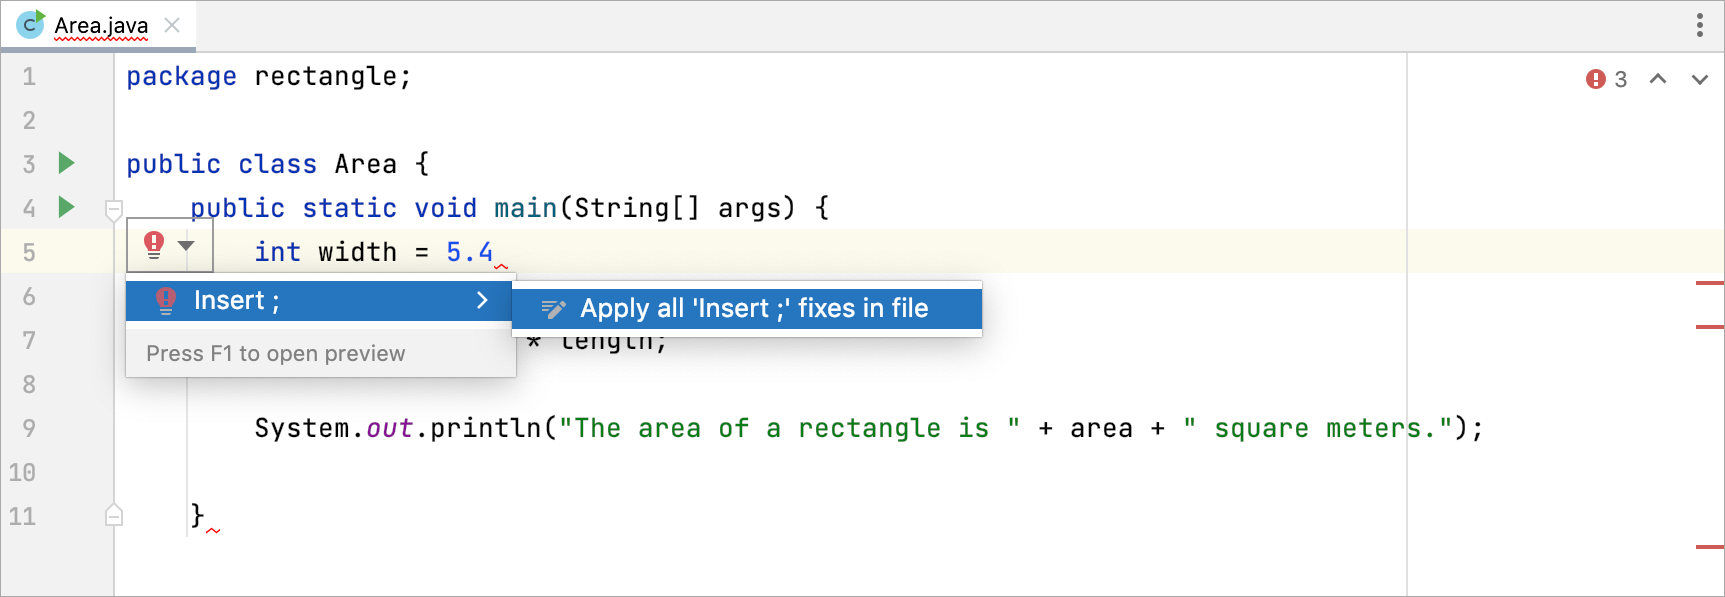
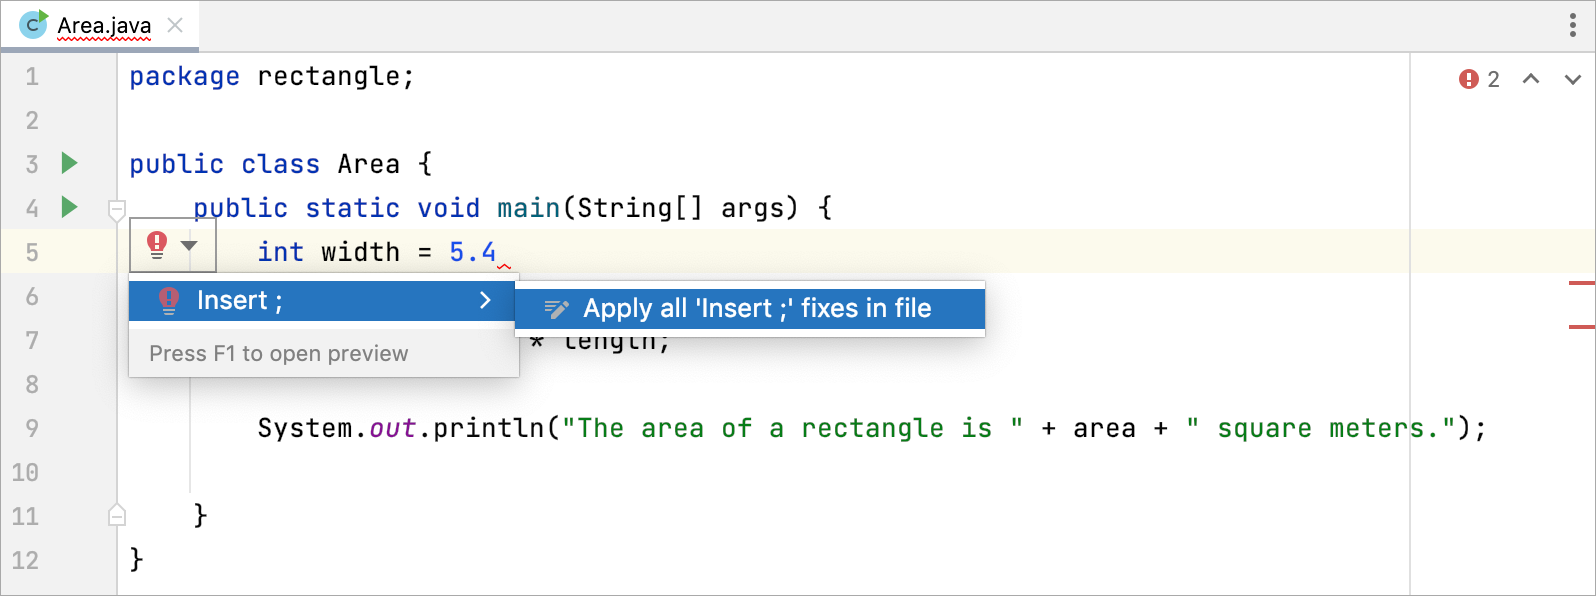
Update tutorial after proofread

diff --git a/README.md b/README.md
@@ -2,14 +2,30 @@
 
 This tutorial shows how to find and fix errors in Java code with the help of IntelliJ IDEA.
 
-IDEA automatically checks the code, highlights the possible problems, and offers
+IntelliJ IDEA automatically checks the code, highlights the possible problems, and offers
 suggestions on how to fix these problems.
 Let's try fixing errors found in a code sample with the help of these suggestions.
 
 ## Getting started
 
-To start practicing, download the [project archive](https://github.com/arctic-dreamer/Tutorial/blob/main/codesample/calculations.tutorial.zip?raw=true)
-with a code sample and open it IntelliJ IDEA.
+To start practicing, you need a new IntelliJ IDEA project with a code sample.
+
+You can either download a ready-made project prepared for this tutorial
+or just copy the code sample to an empty Java class.
+
+### Option 1: Downloading a ready-made project
+
+Download the [project .zip archive](https://github.com/arctic-dreamer/Tutorial/blob/main/codesample/calculations.tutorial.zip?raw=true)
+with the code sample, unarchive it, and open it in IntelliJ IDEA.
+
+If you are not sure how to open a project, here is [an instruction to help you](https://www.jetbrains.com/help/idea/import-project-or-module-wizard.html#open-project).
+
+> The JDK version is not important for the current project. 
+> If after opening the project IntelliJ IDEA warns you 
+> that a certain version of JDK is missing and offers to download it, 
+> you can ignore this notification.
+
+### Option 2: Copying the tutorial code sample
 
 If you don't need a ready-made project, just copy the code from the example below
 and paste it to an empty Java class:
@@ -18,35 +34,40 @@ and paste it to an empty Java class:
 package rectangle;
 
 public class Area {
-    public static void main(String[] args) {
-        int width = 5.4
-        int leength = 4.6 
-        int area = width * length;
-        
-        System.out.println("The area of a rectangle is " + area + " square meters.");
+  public static void main(String[] args) {
+    int width = 5.4
+    int leength = 4.6
+    int area = width * length;
 
+    System.out.println("The area of a rectangle is " + area + " square meters.");
+
+  }
 }
 ```
 
-Here is how the project should look like:
+If you need help creating a new project in IntelliJ IDEA, you can refer to these instructions:
+- [How to create a new Java project](https://www.jetbrains.com/help/idea/creating-and-running-your-first-java-application.html#create-project).
+- [How to create a package and a class](https://www.jetbrains.com/help/idea/creating-and-running-your-first-java-application.html#create-package-and-class).
+
+### Moving on
+
+This is how the project should look like:
 
 ![IntelliJ IDEA full-screen window of a project with a code example](/static/highlighted-problems.png)
 
-The moment you paste the code, IDEA starts checking it and highlights the possible problems.
+The moment you paste the code, IntelliJ IDEA starts checking it and highlights the possible problems.
 The bar in the upper right corner indicates the number of problems found.
-
-Also, in the window below, there is the "Problems" tab.
-It lists every problem with the number of the line it was found in.
+Clicking this bar opens the "Problems" tab in the window below.
+This tab lists every problem with the number of the line it was found in.
 When you double-click one of the problems,
 the caret automatically gets to the exact place where the problem is.
 
 Now back to fixing errors.
-Take a look at the problems highlighted by IDEA:
+Take a look at the problems highlighted by IDE:
 
 - Error in line 5: `';' expected`.
 - Error in line 6: `';' expected`.
 - Error in line 7: `Cannot resolve symbol 'length'`.
-- Error in line 11: `'}' expected`.
 - Warning in line 6: `Variable 'leength' is never used`.
 - Typo in line 6: `Typo: In word 'leength'`.
 
@@ -60,8 +81,7 @@ There is a typo in the name of the `int` variable `length` in line 6.
 This typo is also the cause of one warning (`Variable 'leength' is never used`)
 and one error (`Cannot resolve symbol 'length'`).
 
-Imagine you do not remember how to spell the word "length" correctly.
-This is how you can fix this typo using IDEA suggestions:
+This is how you can fix this typo using IntelliJ IDEA suggestions:
 
 1. **Place the caret on the word with the typo**.
 
@@ -72,61 +92,62 @@ to give you suggestions about the fix.
 
 ![A yellow bulb icon, which opens suggestions menu with fixing options](/static/yellow-bulb-suggestions.png)
 
-IDEA suggests you to correct the typo according to the built-in dictionary.
+IntelliJ IDEA suggests you to correct the typo according to the built-in dictionary.
 After clicking the option `Typo: Rename to…`,
-you will see that IDEA offers you to change the word to `length`:
+you will see that IntelliJ IDEA offers you to change the word to `length`:
 
 ![Fixing option: change 'leength' to 'length'](/static/typo-suggestion.png)
 
 3. **Click `length`**.
 
-IDEA automatically corrects the word.
+IntelliJ IDEA automatically corrects the word.
 
-As a result, the typo, the warning, and one of the errors have disappeared from the list of problems.
+With the typo gone, IntelliJ IDEA manages to find the variable.
+As a result, the warning, and one of the errors disappear from the list of problems.
 There are some other errors left to fix, though.
 
 ## Fixing syntax errors
 
-Missing `;` and `}` symbols are Java syntax errors.
-Let's fix the missing semicolon first.
+Missing `;` symbol is a Java syntax error.
+Let's fix it.
 The process is similar to fixing typos.
 
 1. **Place the caret on the red highlighted area on line 5**.
 
 Again, a bulb icon appears next to the current line.
 This time it's red-colored, which indicates an error.
-IDEA is ready to give you suggestions about the fix.
+IntelliJ IDEA is ready to give you suggestions about the fix.
 
-2. **Click the red bulb icon**.
+2. **Click the red bulb icon, point to `Insert ;`, and move to the submenu option**.
 
 ![A red bulb icon, which opens suggestions menu with fixing options](/static/red-bulb-suggestions.png)
 
-There are two suggestions here:
-- `Insert ;` to insert the semicolon just in the current line.
-- `Apply all 'Insert ;' fixes in file` to insert the semicolon in every place it is missing.
+There are two suggestions to fix the error:
+- `Insert ;` to insert the semicolon just in the current line (the main menu option).
+- `Apply all 'Insert ;' fixes in file` to insert the semicolon in every place it is missing (the submenu option).
 
 3. **Click `Apply all 'Insert ;' fixes in file`**.
 
-With one click you've just fixed two errors in lines 5 and 6.
+With one click, you've just fixed two errors in lines 5 and 6.
 
-Only one syntax error left: `'}' expected` in line 11.
-As you've already learned how to fix syntax errors using IDEA suggestions,
-you can just add the missing symbol manually to save time.
+The syntax is now correct, so IntelliJ IDEA tries to compile the program one more time 
+and checks it for any other problems.
+As a result of such a check, IDE finds two new errors and adds them to the list.
+Let's look into it.
 
 ## Fixing wrong variable types
 
-Now that you've fixed the syntax errors, IDEA can compile the program and check it for any other problems.
-As a result of such a check, IDEA added two new errors to the list:
+After the new check, IntelliJ IDEA added two new errors to the list of problems:
 
 - Error in line 5: `Incompatible types. Found: 'double', required: 'int'`.
 - Error in line 6: `Incompatible types. Found: 'double', required: 'int'`.
 
 ![The "Problems" tab with the list of errors](/static/wrong-variables.png)
 
-It seems that the length of the sides of a rectangular is given in decimals (5.4 and 4.6).
+It seems that the length of the sides of a rectangle is given in decimals (5.4 and 4.6).
 The variable type is `int` though, which is for integers only.
 
-Let's see what hints IDEA gives you to fix it.
+Let's see what hints IntelliJ IDEA gives you to fix it.
 
 1. **Place the caret anywhere on line 5**.
 
@@ -134,7 +155,7 @@ Let's see what hints IDEA gives you to fix it.
 
 ![A red bulb icon, which opens suggestions menu with fixing options](/static/wrong-variables-fix-suggestions.png)
 
-IDEA offers three solutions here:
+IntelliJ IDEA offers three solutions here:
 
 - `Cast to 'int'`,
   which transforms the line the following way: `int width = (int) 5.4;`.
@@ -150,7 +171,7 @@ Let's choose the second option to make changes in every line where `width` is us
 
 The error is now fixed.
 
-Change `int` for `double` in line 6 the same way you just did in line 5.
+4. **Change `int` for `double` in line 6 the same way you just did in line 5**.
 
 ## Making final checks
 
@@ -171,8 +192,31 @@ public class Area {
 }
 ```
 
-In the "Problems" tab, you can see the message *"No problems in Area.java"*:
+In the "Problems" tab, you can see the message *"No problems in Area.java"*.
 
-![IntelliJ IDEA full-screen window with the final version of the project](/static/no-problems-in-project.png)
+## Running the program
+
+As no more problems are highlighted, let's run the program and find out what's the area of a rectangle is.
+
+> For detailed instructions on how to build and run Java applications, refer to [this guide](https://www.jetbrains.com/help/idea/creating-and-running-your-first-java-application.html#run_app). 
+
+To run the program:
+
+1. **Click the green 'play' button in the gutter**.
+
+![Clicking green play button opens a popup menu](/static/run-program.png)
+
+2. **Click `Run 'Area.main()'`**
+
+IntelliJ IDEA compiles and then runs the program.
+The result is shown in the run tool window below.
+
+The output is `Process finished with exit code 0`, 
+which means the program was executed successfully without errors.
+
+And here comes the result of the calculations for the parameters we set:
+`The area of a rectangle is 24.84 square meters.`
+
+![IntelliJ IDEA full-screen window with the final result](/static/final-result.png)
 
 Well done!
